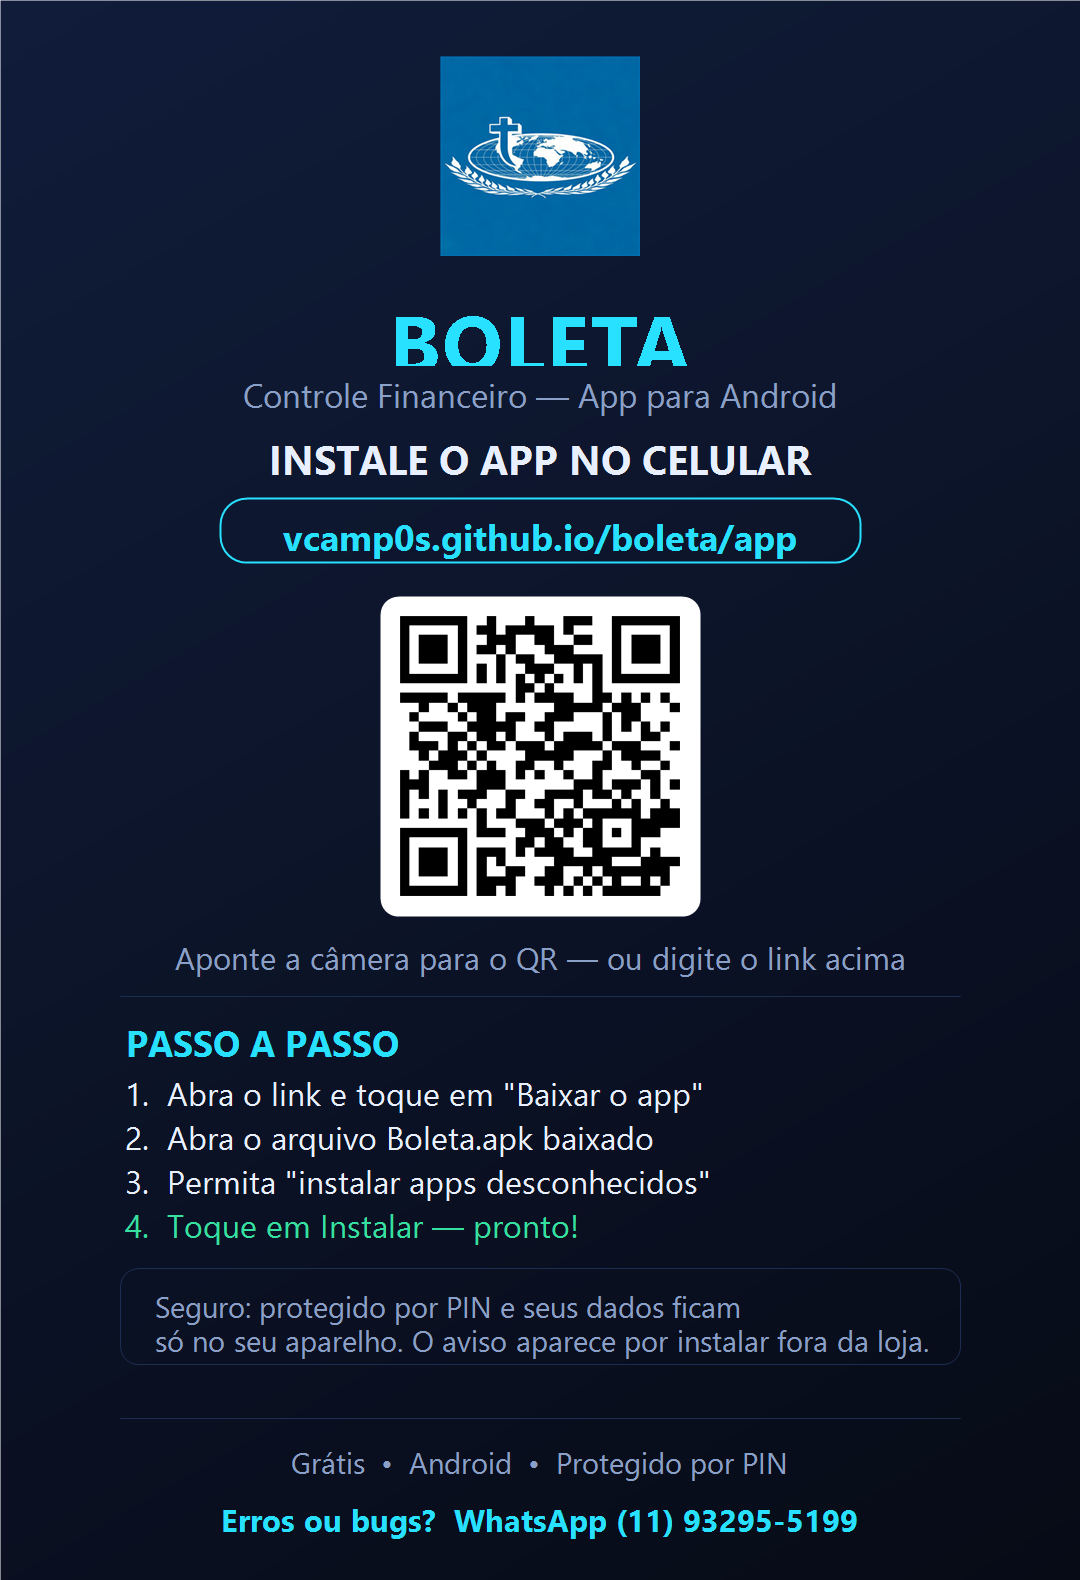
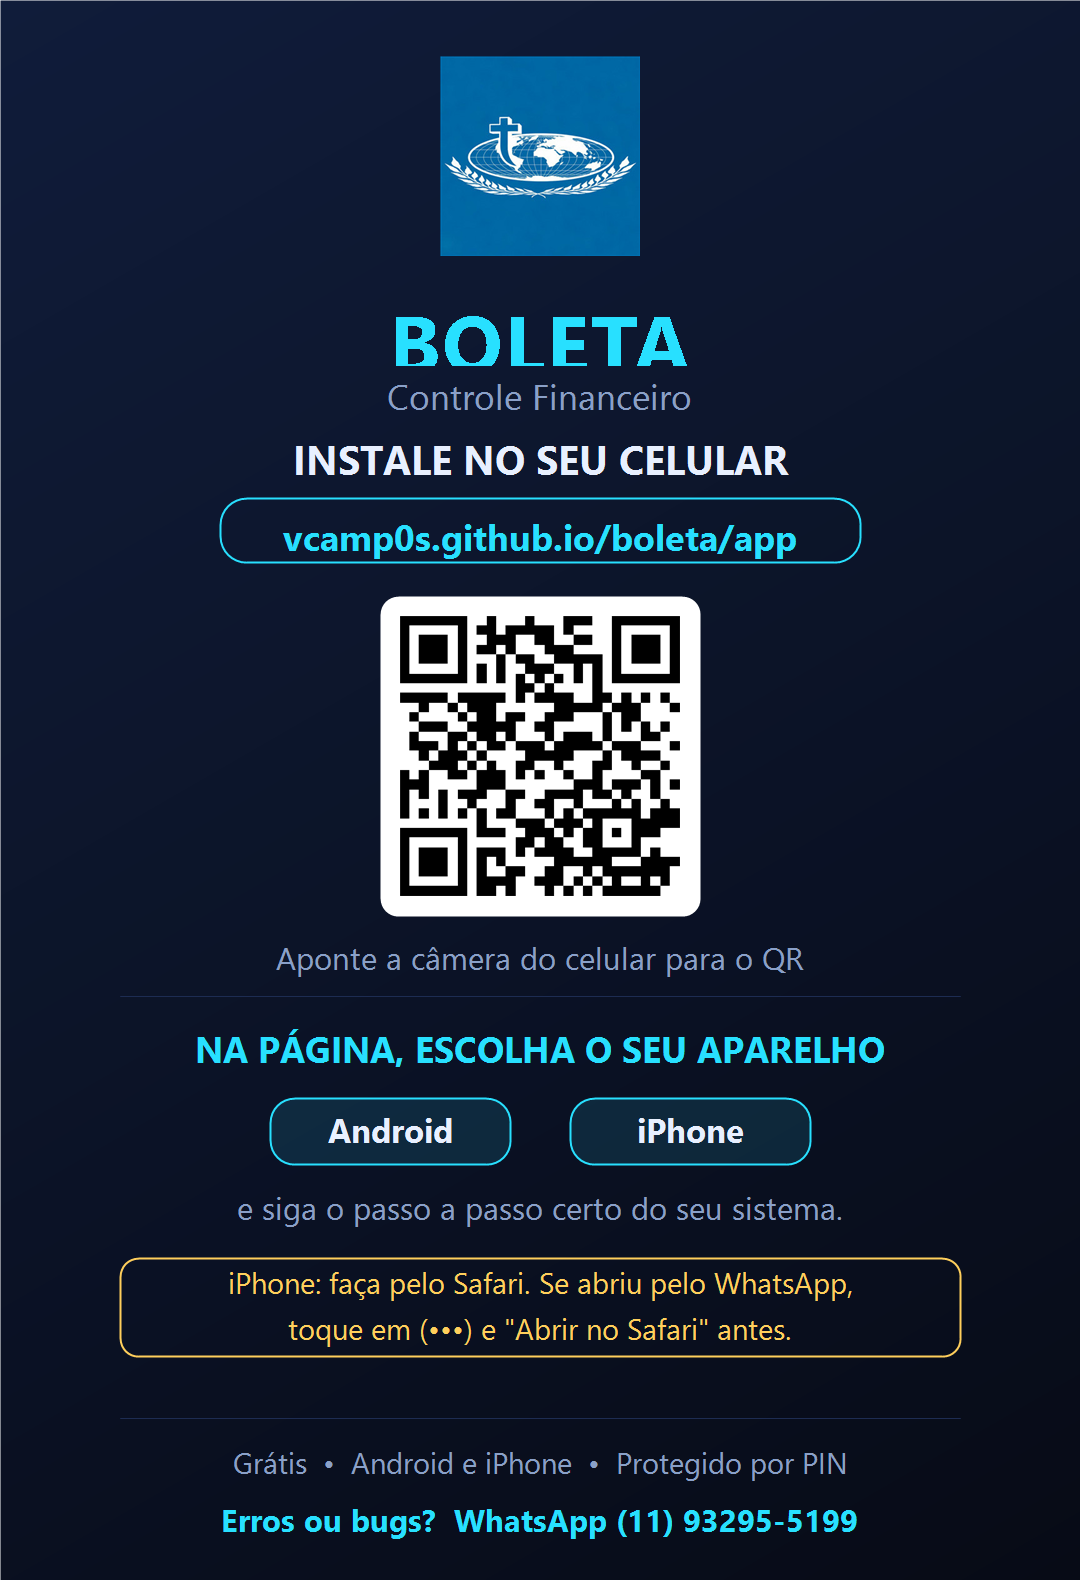
Folheto unico: pagina /app com seletor Android/iPhone (botoes) mostrando o passo a passo certo; um so panfleto universal (remove os 2 separados)

diff --git a/app/index.html b/app/index.html
@@ -19,15 +19,24 @@
     min-height:100vh; padding:28px 18px 56px;
   }
   .wrap{max-width:480px; margin:0 auto}
-  .logo{display:block; width:120px; height:120px; margin:8px auto 14px; border-radius:26px;
+  .logo{display:block; width:116px; height:116px; margin:8px auto 14px; border-radius:26px;
     box-shadow:0 0 40px rgba(40,224,255,.25)}
   h1{font-size:25px; text-align:center; margin:0 0 4px; letter-spacing:.2px}
-  .sub{text-align:center; color:var(--dim); font-size:15px; margin:0 0 24px}
+  .sub{text-align:center; color:var(--dim); font-size:15px; margin:0 0 22px}
+
+  /* seletor Android / iPhone */
+  .toggle{display:flex; gap:8px; background:rgba(14,26,51,.7); border:1px solid var(--line);
+    border-radius:16px; padding:6px; margin:0 0 22px}
+  .tg{flex:1; display:flex; align-items:center; justify-content:center; gap:8px;
+    background:transparent; color:var(--dim); border:0; cursor:pointer;
+    font-family:inherit; font-size:16px; font-weight:700; padding:13px 8px; border-radius:11px;
+    transition:.15s}
+  .tg .ic{font-size:19px}
+  .tg.on{background:linear-gradient(135deg,#28e0ff,#4da3ff); color:#04111f;
+    box-shadow:0 6px 18px rgba(40,224,255,.3)}
+
   .plat{display:none}
   .plat.on{display:block}
-  .ptitle{text-align:center; font-size:13px; letter-spacing:.6px; text-transform:uppercase;
-    color:var(--dim); margin:0 0 16px}
-  .ptitle b{color:var(--neon)}
   .cta{
     display:flex; align-items:center; justify-content:center; gap:10px;
     background:linear-gradient(135deg,#28e0ff,#4da3ff); color:#04111f;
@@ -55,19 +64,22 @@
   .foot{text-align:center; color:var(--dim); font-size:13px; line-height:1.7; margin-top:24px}
   .foot a{color:var(--neon); text-decoration:none; font-weight:700}
   .pos{color:var(--pos); font-weight:700}
-  .switch{text-align:center; margin-top:18px; font-size:13.5px}
-  .switch a{color:var(--blue); text-decoration:none}
 </style>
 </head>
 <body>
   <div class="wrap">
     <img class="logo" src="../icons/icon-512-2.png" alt="Boleta">
     <h1>Boleta <span style="color:var(--dim);font-weight:600">- Controle Financeiro</span></h1>
-    <p class="sub">Instale como app no seu celular</p>
+    <p class="sub">Instale como app · escolha o seu aparelho</p>
+
+    <!-- SELETOR -->
+    <div class="toggle" role="tablist">
+      <button class="tg" data-p="android"><span class="ic">🤖</span> Android</button>
+      <button class="tg" data-p="ios"><span class="ic">🍎</span> iPhone</button>
+    </div>
 
     <!-- ============ ANDROID ============ -->
     <section id="android" class="plat">
-      <p class="ptitle">No seu <b>Android</b></p>
       <a class="cta" href="../Boleta.apk" download>
         <span>⬇ Baixar o app
           <small>arquivo Boleta.apk · Android</small>
@@ -75,7 +87,7 @@
       </a>
       <p class="size">Grátis · 2,6 MB · protegido por PIN</p>
       <div class="card">
-        <h2>Como instalar</h2>
+        <h2>Como instalar no Android</h2>
         <div class="step"><div class="num">1</div><p>Toque em <b>“Baixar o app”</b> acima e aguarde o download.</p></div>
         <div class="step"><div class="num">2</div><p>Abra o arquivo <b>Boleta.apk</b> (na notificação ou em <b>Downloads</b>).</p></div>
         <div class="step"><div class="num">3</div><p>Permita <b>instalar apps desconhecidos</b> desta origem → ative e volte.</p></div>
@@ -83,15 +95,14 @@
       </div>
     </section>
 
-    <!-- ============ iPHONE / iOS ============ -->
+    <!-- ============ iPHONE ============ -->
     <section id="ios" class="plat">
-      <p class="ptitle">No seu <b>iPhone</b></p>
-      <div class="warn" id="ios-safari-warn">
+      <div class="warn">
         ⚠ <b>Precisa ser no Safari.</b> Se você abriu pelo WhatsApp, Instagram ou Chrome,
         toque no menu <b>(•••)</b> ou no ícone de compartilhar e escolha <b>“Abrir no Safari”</b> antes de continuar.
       </div>
       <div class="card">
-        <h2>Adicionar à tela de início</h2>
+        <h2>Como instalar no iPhone</h2>
         <div class="step"><div class="num">1</div><p>No <b>Safari</b>, toque no botão <b>Compartilhar</b> — o quadradinho com uma <b>seta pra cima ⬆</b> (na barra de baixo).</p></div>
         <div class="step"><div class="num">2</div><p>Role para baixo e toque em <b>“Adicionar à Tela de Início”</b>.</p></div>
         <div class="step"><div class="num">3</div><p>Toque em <b>“Adicionar”</b> no canto superior direito.</p></div>
@@ -101,25 +112,6 @@
         🍎 No iPhone, o app é instalado direto pelo Safari (a Apple não permite baixar arquivo de app por fora da loja). Funciona offline e fica protegido por PIN.
       </div>
     </section>
-
-    <!-- ============ DESKTOP / OUTROS ============ -->
-    <section id="other" class="plat">
-      <div class="warn">
-        📱 <b>Abra este link no seu celular</b> para instalar. Aponte a câmera para o QR do folheto,
-        ou envie este endereço para o seu telefone:
-        <br><b>vcamp0s.github.io/boleta/app</b>
-      </div>
-      <div class="card">
-        <h2>Android</h2>
-        <div class="step"><div class="num">1</div><p><a style="color:var(--neon)" href="../Boleta.apk" download>Baixar Boleta.apk</a>, abrir o arquivo e permitir instalar de origem desconhecida.</p></div>
-      </div>
-      <div class="card">
-        <h2>iPhone (Safari)</h2>
-        <div class="step"><div class="num">1</div><p>Compartilhar ⬆ → <b>Adicionar à Tela de Início</b>.</p></div>
-      </div>
-    </section>
-
-    <p class="switch" id="switch"></p>
 
     <p class="foot">
       Dúvidas ou erros? <a href="https://wa.me/5511932955199?text=Ol%C3%A1!%20Sobre%20o%20app%20Boleta%3A%20">WhatsApp (11) 93295-5199</a>
@@ -131,27 +123,17 @@
       var ua = navigator.userAgent || '';
       var isIOS = /iPad|iPhone|iPod/.test(ua) ||
                   (navigator.platform === 'MacIntel' && navigator.maxTouchPoints > 1);
-      var isAndroid = /Android/.test(ua);
-      var show = isAndroid ? 'android' : (isIOS ? 'ios' : 'other');
-      document.getElementById(show).classList.add('on');
+      var initial = isIOS ? 'ios' : 'android';
 
-      // No iOS, esconde o aviso "abra no Safari" se já estiver no Safari de verdade
-      if (isIOS) {
-        var inSafari = /Safari/.test(ua) && !/CriOS|FxiOS|EdgiOS|GSA|FBAN|FBAV|Instagram|Line|MicroMessenger/.test(ua);
-        // Em standalone (já adicionado) ou Safari puro, o aviso é menos necessário, mas mantemos
-        // por segurança porque o WebView do WhatsApp também contém "Safari".
-      }
-
-      // Link para ver os passos do outro sistema
-      var sw = document.getElementById('switch');
-      if (show === 'android') sw.innerHTML = 'Está num iPhone? <a href="#" data-go="ios">Ver passos do iPhone</a>';
-      else if (show === 'ios') sw.innerHTML = 'Está num Android? <a href="#" data-go="android">Ver passos do Android</a>';
-      sw.addEventListener('click', function(e){
-        var t = e.target.closest('[data-go]'); if(!t) return; e.preventDefault();
+      function select(p){
         document.querySelectorAll('.plat').forEach(function(s){ s.classList.remove('on'); });
-        document.getElementById(t.dataset.go).classList.add('on');
-        sw.innerHTML = '<a href="#" data-go="'+show+'">Voltar</a>';
+        document.querySelectorAll('.tg').forEach(function(b){ b.classList.toggle('on', b.dataset.p === p); });
+        document.getElementById(p).classList.add('on');
+      }
+      document.querySelectorAll('.tg').forEach(function(b){
+        b.addEventListener('click', function(){ select(b.dataset.p); });
       });
+      select(initial);
     })();
   </script>
 </body>
